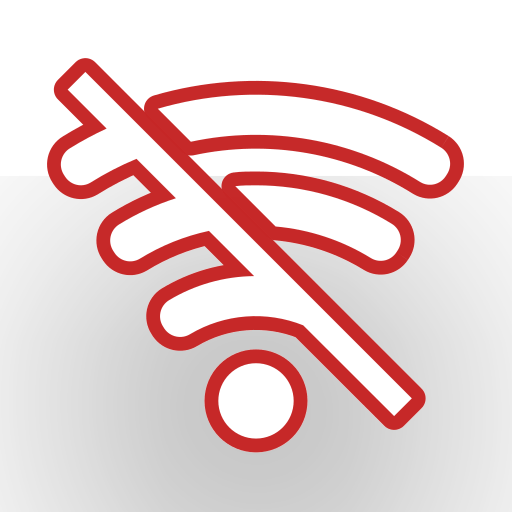
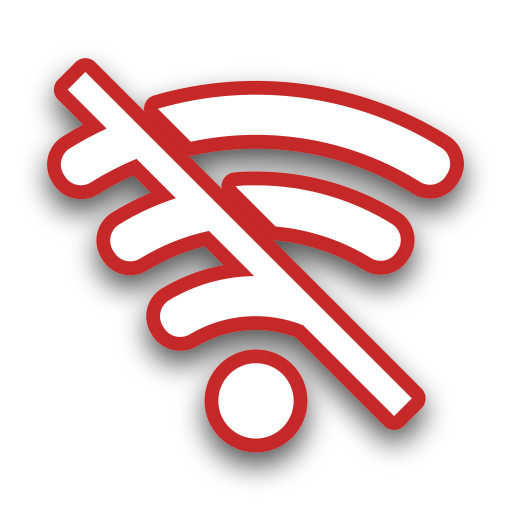
Fix progressive camera overlay shadow (#9)
Scale the SVG drop shadow with the transformed icon, regenerate the transparent runtime asset, and prevent clipped rectangular shadows with a focused alpha regression test.

diff --git a/test/home-assistant/hippos-toolbox-integration/python/test_progressive_camera.py b/test/home-assistant/hippos-toolbox-integration/python/test_progressive_camera.py
@@ -453,7 +453,21 @@ class ProgressiveCameraOverlayAssetTests(unittest.TestCase):
         with PillowImage.open(asset) as image:
             self.assertEqual(image.mode, "RGBA")
             self.assertEqual(image.size, (512, 512))
-            self.assertEqual(image.getchannel("A").getextrema(), (0, 255))
+            alpha = image.getchannel("A")
+            self.assertEqual(alpha.getextrema(), (0, 255))
+
+            # A scaled SVG blur once reached the asset edges and was clipped into
+            # a faint rectangle that became visible over bright camera frames.
+            meaningful_alpha = alpha.point(
+                lambda value: 255 if value > 8 else 0
+            )
+            bounds = meaningful_alpha.getbbox()
+            self.assertIsNotNone(bounds)
+            left, top, right, bottom = bounds
+            self.assertGreater(left, 0)
+            self.assertGreater(top, 0)
+            self.assertLess(right, image.width)
+            self.assertLess(bottom, image.height)
 
 
 if __name__ == "__main__":

diff --git a/.changeset/tidy-camera-overlay-shadow.md b/.changeset/tidy-camera-overlay-shadow.md
@@ -1,0 +1,5 @@
+---
+"hippos-home-assistant-toolbox": patch
+---
+
+Keep the Progressive Snapshot Camera connection overlay transparent outside its icon and compact drop shadow.
